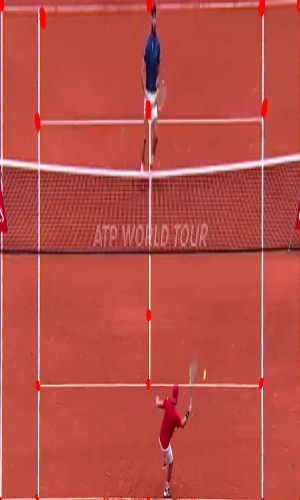
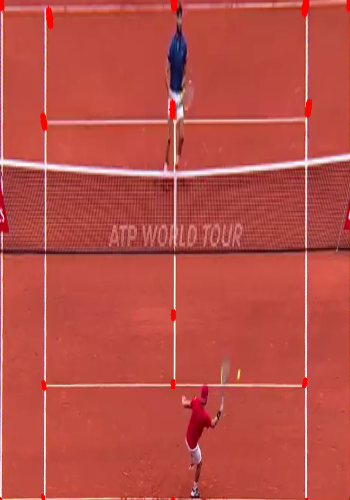
update: geometrical transformations

diff --git a/main.py b/main.py
@@ -58,7 +58,7 @@ distance from specific lines (baseline, sideline)
 Width and Height for Transformed Image
 """
 
-WIDTH, HEIGHT = 300,500
+WIDTH, HEIGHT = 350,500
 
 
 def main():
@@ -100,7 +100,7 @@ def main():
     # --- Apply Geometry Trasformations --- #
     src_points = court_line_detector.get_court_corners(court_keypoints)
     dst_points = np.array([(0,0), (WIDTH, 0), (0, HEIGHT), (WIDTH, HEIGHT)], dtype=np.float32)
-    geometric_transform = GeometricalTransformations(src_points, dst_points)
+    geometric_transform = GeometricalTransformations(WIDTH, HEIGHT, src_points, dst_points)
     transformed_image = geometric_transform.transform_image(court_keypoints_img)
     cropped_transformed_image = geometric_transform.crop_image(transformed_image)
 

diff --git a/geometrical_transformations/geometrical_transformations.py b/geometrical_transformations/geometrical_transformations.py
@@ -1,11 +1,11 @@
 import cv2
 import numpy as np
 
-CROP_WIDTH, CROP_HEIGHT = 500,300
-
 
 class GeometricalTransformations:
-  def __init__(self, src_points, dst_points):
+  def __init__(self, height, width, src_points, dst_points):
+    self.crop_width = width 
+    self.crop_height = height 
     self.src_points = np.array(src_points, dtype=np.float32)
     self.dst_points = np.array(dst_points, dtype=np.float32)
     self.homography_matrix, _ = cv2.findHomography(self.src_points, self.dst_points)
@@ -16,5 +16,5 @@ class GeometricalTransformations:
     return transformed_image
   
   def crop_image(self, image):
-    return image[0:CROP_WIDTH, 0:CROP_HEIGHT]
+    return image[0:self.crop_width, 0:self.crop_height]
   
